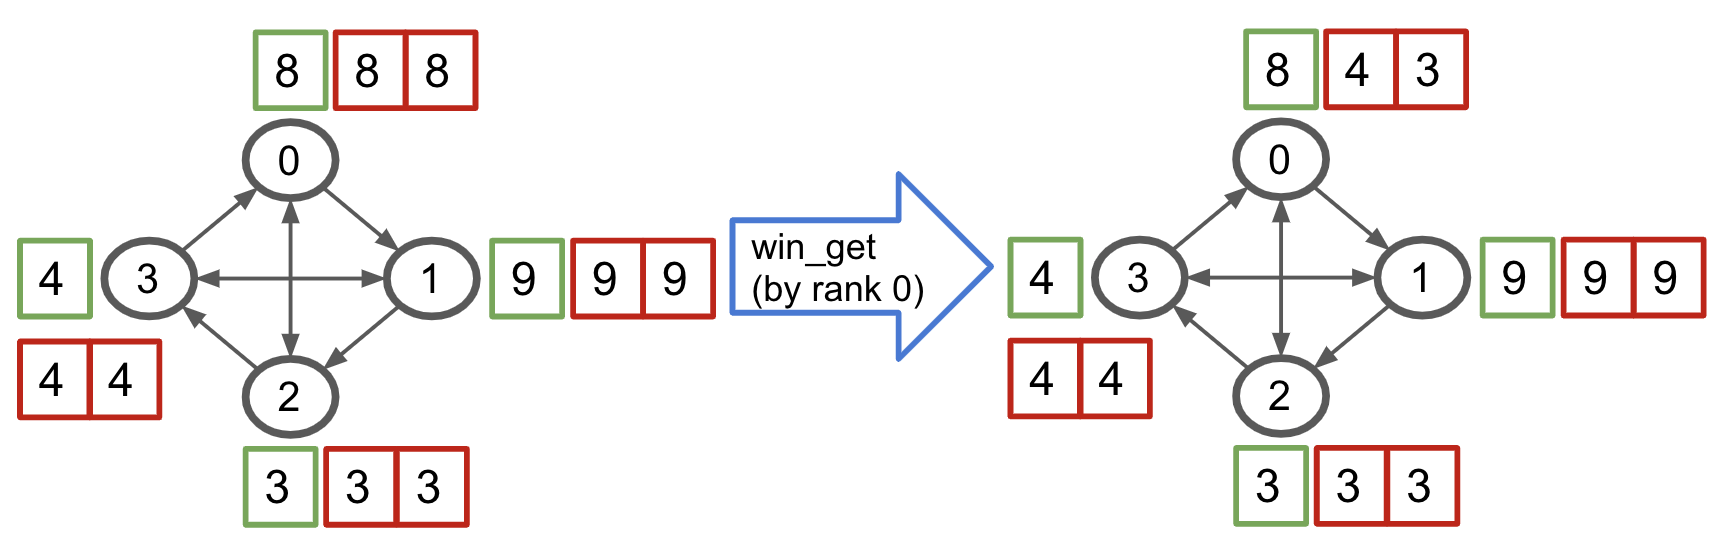
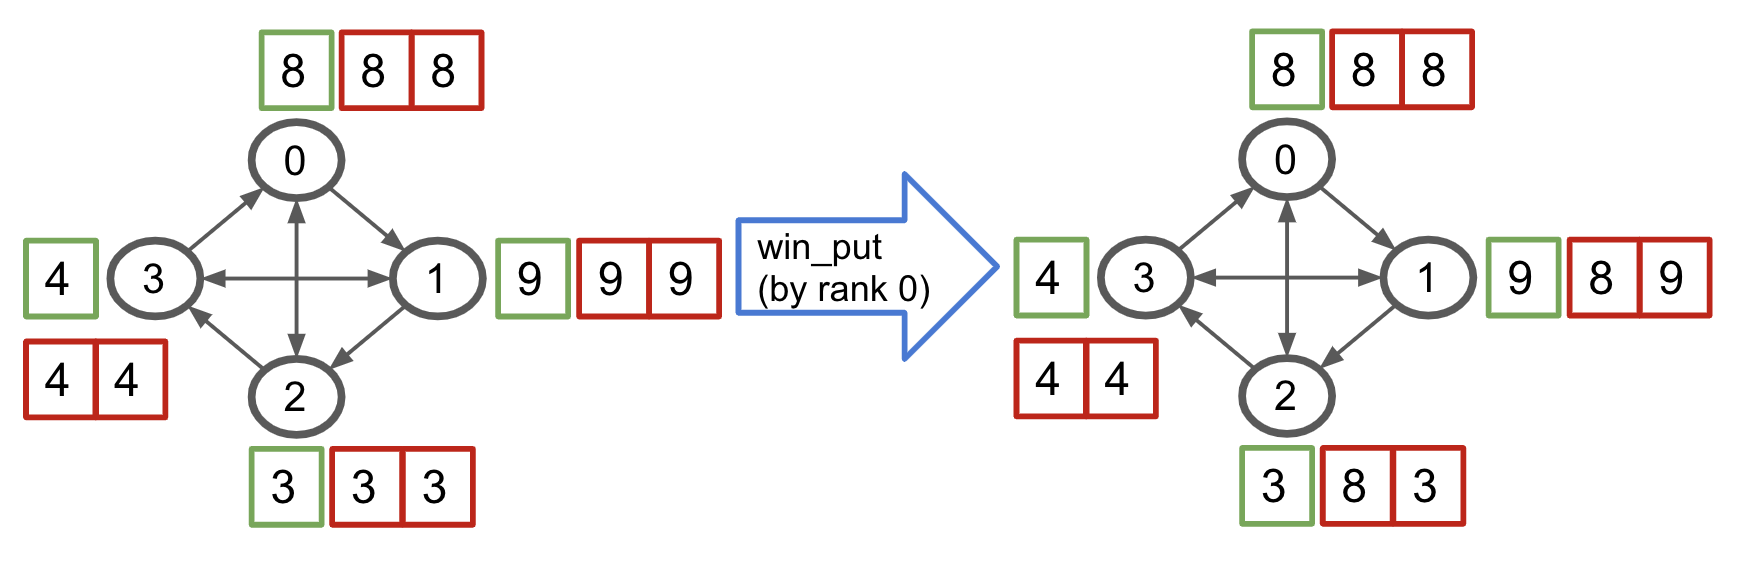
More on win_ops explanation docs

Changed region(s): [[0.0, 0.0309, 0.9965, 0.9582], [0.7785, 0.0927, 0.8408, 0.1545], [0.7163, 0.0309, 0.8408, 0.0618]]

diff --git a/docs/bluefog_ops.rst b/docs/bluefog_ops.rst
@@ -12,20 +12,21 @@ The communication ops that bluefog supported can be catogorized into three types
 
 1. Collective Ops: ``broadcast``, ``allreduce``, ``allgather``.
 2. Neighbor Colletive Ops: ``neighbor_allreduce``, ``neighbor_allgather``.
-3. One-sided Communication Ops: ``win_create``, ``win_free``, ``win_sync``, ``win_put``, ``win_get``, ``win_accumulate``.
+3. One-sided Communication Ops: ``win_create``, ``win_free``, ``win_put``, ``win_get``, ``win_accumulate``, ``win_sync``, ``win_sync_then_collect``.
 
 We use figure to illustrate all those ops with 
 similar style as in `MPI tutorials blog`_. 
 In the figure, we use *circle* to represent one process, which is exchangeablely called node,
 agent, host, etc. under some circumstance, and use *square* to represent the data or tensor. 
 The number inside of circle is the rank of that process and th number inside of square is the value of data.
+If you need more background information about MPI, we recommend this nice `tutorial`_.
 
 
 Collective Ops
 --------------
 These three ``broadcast``, ``allreduce``, ``allgather`` ops are most basic collective MPI ops.
 The bluefog implementation is almost exactly the same as the MPI definition. One small difference
-is allreduce only support average and summation since we focused on the numerical calculation only.
+is allreduce only support average and summation since bluefog focused on the numerical calculation only.
 
 allgather
 #########
@@ -77,11 +78,21 @@ neighbor_allreduce
 
 One-sided Communication Ops
 ---------------------------
-
-To be added.
+One-sided communication ops is introduced after MPI-2. The most notable feature of 
+one-sided communication is indicated by the name that allow the communication ops of 
+one process to be detached from the behavior of another process. Bluefog heavily relied
+on this feature to build the asynchronous algorithm. Except the win_create and win_free is
+the collective ops, all rest ops only need be called by one process. `Here`_ is a nice introduction
+for the MPI one-sided ops. As mentioned before, please note the usage and definition of Bluefog
+is slightly different.
 
 win_create
 ##########
+Win create is always the first step to start use the one-sided communication. After this call,
+each process will allocate the number of incoming neighbor's window as buffer, which is illustrated
+in the figure as red square. Each buffer is dedicated to one neighbor. You don't need to know
+which one is dedicated to which neighbor because these buffer is invisible to the python frontend.
+
 .. image:: _static/bf_win_create.png
     :alt: BluefogWinCreateExplanation
     :width: 650
@@ -92,28 +103,58 @@ win_free
     :alt: BluefogWinFreeExplanation
     :width: 650
 
+.. Note::
+    In the following figures, we only show the behavior of win_put/get/accumulate/sync to all neighbors
+    with no weights. Actually, you are allowed to customize which neighbor to send/receive and 
+    assign any weight on tensor. Please check our API doc to see how to use it.
+
 win_put
 #######
+Win_put is one of three main method to exchange the information between process in window.
+By default, it will *put* its own tensor value into all *outgoing* neighbor's buffer.
+Note it doesn't need the receiver to do anything.
+
 .. image:: _static/bf_win_put.png
     :alt: BluefogWinPutExplanation
     :width: 650
 
 win_get
 #######
+Win_get is one of three main method to exchange the information between process in window.
+By default, it will *get* (fetch) the *incoming* neighbor's local value into the its own buffer.
+Note it doesn't need the sender to do anything.
+
 .. image:: _static/bf_win_get.png
     :alt: BluefogWinGetExplanation
     :width: 650
 
 win_accumulate
 ##############
+Win_accumulate is one of three main method to exchange the information between process in window.
+By default, it will *accumulate* its own tensor value into all *outgoing* neighbor's buffer, i.e. sum up.
+Note it doesn't need the receiver to do anything.
+
 .. image:: _static/bf_win_accum.png
     :alt: BluefogWinAccumExplanation
     :width: 650
 
 win_sync
 ########
+Win_sync is the bridge to connected the value of buffer corresponding to the neighbor value
+and the local value. It has two functionalities. One is to update the buffer to make sure the
+neighbor value, which may be changed through win_put, win_get, and/or win_accumulate, is synchronized
+and visible to local memory. Another is it will update the local value to the average of self and neighbor's.
+
 .. image:: _static/bf_win_sync.png
     :alt: BluefogWinSyncExplanation
     :width: 650
 
-..  _MPI tutorials blog: https://mpitutorial.com/tutorials/
+win_sync_then_collect
+#####################
+.. image:: _static/bf_win_sync_collect.png
+    :alt: BluefogWinSyncThenCollectExplanation
+    :width: 675
+
+.. _MPI tutorials blog: https://mpitutorial.com/tutorials/
+.. _tutorial: https://computing.llnl.gov/tutorials/mpi/
+.. _Here: https://pages.tacc.utexas.edu/~eijkhout/pcse/html/mpi-onesided.html

diff --git a/docs/devel_guide.rst b/docs/devel_guide.rst
@@ -99,45 +99,7 @@ recommended to have an editor to run ``pylint`` easily (But do not turn
 on format-on-save.) Otherwise, remember to run ``pylint {FILENANE}`` on
 your changes.
 
-For C++, we use ``clang-tidy``? I am not very familiar with C++ format.
-Right now, we have a simple ``.clang-format`` file. I just use vscode
-``clang-format`` plugin.
-
-
-6. FAQ for Mac users:
----------------------
-
-1. If my default python version is 2, how to set the default python
-   version to 3?
-
-**Answer**: alias python=python3
-
-2. If my pytorch is not well installed, how to reinstall pytorch?
-
-**Answer**: Uninstall torch: pip uninstall torch
-
-Install torch: pip3 install torch torchvision
-
-3. I got the following error when executing “BLUEFOG_LOG_LEVEL=debug
-   mpirun -n 2 python bluefog/torch/c_hello_world.py”. How to address
-   this issue? Error: File “bluefog/torch/c_hello_world.py”, line 36
-   print(f“Rank: {rank}, local rank: {local_rank} Size: {size}, local
-   size: {local_size}”) ^ SyntaxError: invalid syntax
-
-**Answer**: you should precise python3 using the following command:
-BLUEFOG_LOG_LEVEL=debug mpirun -n 2 python3
-bluefog/torch/c_hello_world.py
-
-4. If I get the following error when executing “make test” command, how
-   to address this issue? Error: Test error: There are not enough slots
-   available in the system to satisfy the 4
-
-**Answer**: Reason: there are not enough physical CPU cores (the test
-requires 4) in your machine. In order to address this issue, you should
-first use “sysctl hw.physicalcpu hw.logicalcpu” command to know the
-number of physical CPU cores. Assume that you have 2 physical CPU cores
-in your machine, you need to modify 4 in python/Makefile to 2. Then, the
-issue is resolved.
+For C++, we use ``clang-tidy``. We follow the google style for C++ as well.
 
 
 .. _conda: https://docs.conda.io/projects/conda/en/latest/user-guide/tasks/manage-environments.html
